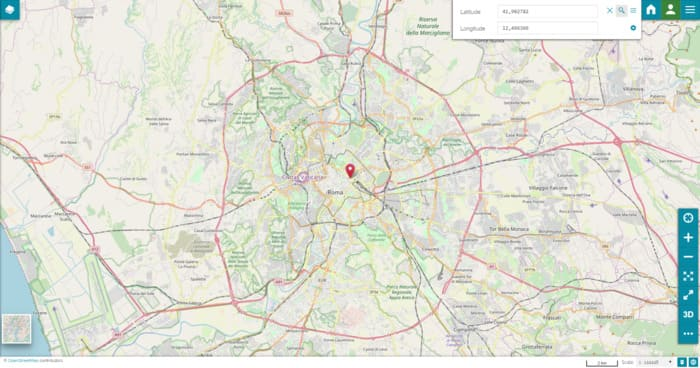
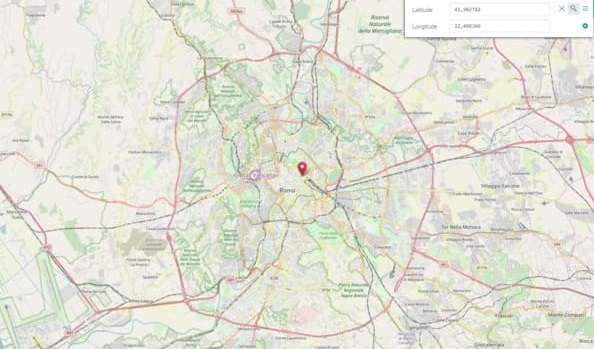
8174_update

diff --git a/docs/user-guide/menu-bar.md b/docs/user-guide/menu-bar.md
@@ -1,15 +1,12 @@
 # Menu Bar
+
 **********
 
-The *Menu Bar* consist of four different parts:
+The *Menu Bar* is composed of various tools that are used by the user to interact on the map viewer. In particular, it consists of two parts:
 
 * The **Search bar**
 
-* The **Homepage** button <img src="../img/button/home-page-icon.jpg" class="ms-docbutton"/>, that redirect the user to the [Homepage](https://mapstore.geosolutionsgroup.com/mapstore/#/)
-
-* The **Login** button (for more information see the [Managing Users and Groups](managing-users-and-groups.md#managing-users-and-groups) section)
-
-* The **Burger Menu** button <img src="../img/button/burger.jpg" class="ms-docbutton"/>
+* The **Options Menu**
 
 <img src="../img/menu-bar/menu-bar.jpg" class="ms-docimage"/>
 
@@ -79,7 +76,7 @@ In this case, the user can define the following settings:
 
 * The **Description** to report in the results just below the title
 
-* The **Priority**, a parameter which determines the position of the records in the results list. Lower values imply a higher positions in the results list and vice versa. By default the [OpenStreetMap Nominatim search engine](https://nominatim.openstreetmap.org/) result has priority equals to 5, therefore in order to see the custom results in a higher position a lower priority value is needed 
+* The **Priority**, a parameter which determines the position of the records in the results list. Lower values imply a higher positions in the results list and vice versa. By default the [OpenStreetMap Nominatim search engine](https://nominatim.openstreetmap.org/) result has priority equals to 5, therefore in order to see the custom results in a higher position a lower priority value is needed
 
 * The **Launch Info panel** allows the user to chose if and how the custom search interact with the [Identify tool](side-bar.md#identify-tool). In particular, with the *No Info* option, the Info panel doesn't show up once a record from the search results is selected. Selecting *All Layers* or *Single Layer* the Identify tool is triggered, and the related panel opens displaying the information of all/single layer(s) visible in the map. With *Single Layer* instead, the Identify tool is triggered only for the layer (if it is present and visible in the map) related to the selected record in the search result list.
 
@@ -130,10 +127,10 @@ In particular, the information to be entered are:
 
 * **Bounding Box** property the user wish to zoom to
 
-    * **West**, **South**, **East** and **North**
-    
+  * **West**, **South**, **East** and **North**
+
 * **Toggle layer visibility reload**, <img src="../img/button/eyeon.jpg" class="ms-docbutton"/> to enable/disable the layer visibility reload when searched by bookmark
-    
+
 Note: The user can define bounding box value either manually or by selecting **Use current view as bounding box** <img src="../img/button/get_bbox.jpg" class="ms-docbutton"/> to fetch the current bounding box values from the map view to populate the fields
 
 When all the properties have been set, selecting the <img src="../img/button/save-update-button.jpg" class="ms-docbutton"/> it is possible to see the newly added bookmark in the **View bookmarks** list:
@@ -142,62 +139,51 @@ When all the properties have been set, selecting the <img src="../img/button/sav
 
 Once a bookmark has been created, it is always possible to *Edit* it <img src="../img/button/edit-service-icon.jpg" class="ms-docbutton"/> or *Remove* it <img src="../img/button/delete-service-icon.jpg" class="ms-docbutton"/> from the list.
 
-## Burger Menu
+## Options Bar
 
-The *Burger Menu* is an important tools container that allows the user to perform different operations and take a look at several information:
+The *Options Bar* is an important tools bar, positioned on the right side of the map viewer, that allows the user to perform different operations and take a look at several information:
 
-<img src="../img/menu-bar/burger-menu.jpg" class="ms-docimage" style="max-width:300px;"/>
+<img src="../img/menu-bar/options-menu.jpg" class="ms-docimage" style="max-width:300px;"/>
 
 In particular, with these options it is possible to:
 
-* [Print](print.md#printing-a-map) the map
+* Go back to the [Homepage](https://mapstore.geosolutionsgroup.com/mapstore/#/) by clicking the <img src="../img/button/homepage.jpg" class="ms-docbutton"/> button
 
-* **Export map** in `json` format
+* **Login/Logout** by clicking the <img src="../img/button/logged.jpg" class="ms-docbutton"/> button (for more information see the [Managing Users and Groups](managing-users-and-groups.md) section)
 
-* [Import](import.md#import-files) files from your machine
+* Open the **Version** panel to see the information about the deployed version of [MapStore](https://mapstore.geosolutionsgroup.com/mapstore/#/) by clicking the <img src="../img/button/version.jpg" class="ms-docbutton"/> button
 
-* Open the [Catalog](catalog.md#catalog-services) in order to connect to a remote service and add layers to the map
+* [Print](print.md) the map by clicking the <img src="../img/button/print2.jpg" class="ms-docbutton"/> button
 
-* Perform a [Measure](measure.md#performing-measurements) on the map
+* **Export map** in `json` format by clicking the <img src="../img/button/export2.jpg" class="ms-docbutton"/> button
 
-* **Save** the map in order to apply the changes made in an existing map (this button is not available creating a new one). Selecting this option the [Resources Properties](resources-properties.md#resource-properties) window opens, already filled with the current map properties
+* [Import](import.md) files from your machine by clicking the <img src="../img/button/import2.jpg" class="ms-docbutton"/> button
 
-* **Save as** when the user needs to save a copy of a map or save one for the first time. Selecting this option an empty [Resources Properties](resources-properties.md#resource-properties) window opens.
+* Open the [Catalog](catalog.md) in order to connect to a remote service and add layers to the map by clicking the <img src="../img/button/catalog2.jpg" class="ms-docbutton"/> button
 
-* **Delete Map** in order to delete the current map. 
+* Perform a [Measure](measure.md) on the map by clicking the <img src="../img/button/measurament.jpg" class="ms-docbutton"/> button
 
-* Create [Annotations](annotations.md#adding-annotations) and add them to the map
+* **Save** the map by clicking the <img src="../img/button/save2.jpg" class="ms-docbutton"/> button, in order to apply the changes made in an existing map. Selecting this option, the [Resources Properties](resources-properties.md) window opens, already filled with the current map properties
 
-* Access the map **Settings** where the user can change the current *Language*, select the *Identify response format* (*Text*, *html* or *Properties*) and see the application *Version* (more information about the *Identify response format* can be found in the [Identify tool](side-bar.md#identify-tool) section)
+* **Save as** when the user needs to save a copy of a map or save one for the first time by clicking the <img src="../img/button/saveas2.jpg" class="ms-docbutton"/> button. Selecting this option an empty [Resources Properties](resources-properties.md) window opens.
 
-<img src="../img/menu-bar/settings.jpg" class="ms-docimage" style="max-width:400px;"/>
+* **Delete Map** in order to delete the current map by clicking the <img src="../img/button/delete2.jpg" class="ms-docbutton"/> button
 
-!!!Note
-    When the [3D navigation](side-bar.md#3d-navigation) is enabled, opening the **Settings** panel, the editor is allowed to configure some options related to the *Cesium viewer*. 
-    <img src="../img/menu-bar/cesium-settings.jpg" class="ms-docimage" style="max-width:500px;"/>
+* Access the map **Settings** by clicking the <img src="../img/button/settings2.jpg" class="ms-docbutton"/> button, where the user can change the current **Language** and select the [Identify](side-bar.md#identify-tool) options
 
-    In particular, from the *Map Settings* it is possible to:
+<img src="../img/menu-bar/settings-panel.jpg" class="ms-docimage" style="max-width:400px;"/>
 
-    * Enable the **Show sky atmosphere** to see the atmosphere around the globe
+* See the **About this map** panel by clicking the <img src="../img/button/details2.jpg" class="ms-docbutton"/> button, when [Details](resources-properties.md#details) are present
 
-    * Enable the **Show ground atmosphere** to view the ground atmosphere on the globe when viewed from a distance
+* [Share](share.md) the map by clicking the <img src="../img/button/share2.jpg" class="ms-docbutton"/> button
 
-    * Enable the **Show fog** to allow additional performance by rendering less geometry and dispatching less terrain requests
+* Open the [MapStore Documentation](https://mapstore.readthedocs.io/en/latest/) by clicking the <img src="../img/button/doc2.jpg" class="ms-docbutton"/> button
 
-    * Enable the **Depth test against terrain** if polylines, labels, etc. should be depth-tested against the terrain surface
+* Start the **Tutorial** by clicking the <img src="../img/button/tutorial2.jpg" class="ms-docbutton"/> button
 
-
-* See the **About this map** panel, when [Details](resources-properties.md#details) are present
-
-* [Share](share.md#sharing-resources) the map
-
-* Open the [MapStore Documentation](https://mapstore.readthedocs.io/en/latest/)
-
-* Start the **Tutorial** 
-
-* Know more information **About** [MapStore](https://mapstore.geosolutionsgroup.com/mapstore/#/)
+* Know more information **About** [MapStore](https://mapstore.geosolutionsgroup.com/mapstore/#/) by clicking the <img src="../img/button/about2.jpg" class="ms-docbutton"/> button
 
 <img src="../img/menu-bar/about.jpg" class="ms-docimage" style="max-width:500px;"/>
 
 !!!warning
-    The **Save**, the **Delete Map** and the **Share** buttons are present in the *Burger Menu* only when the map has already been saved once.
+    The **Save**, the **Delete Map** and the **Share** buttons are present in the *Options Menu* only when the map has already been saved once.
